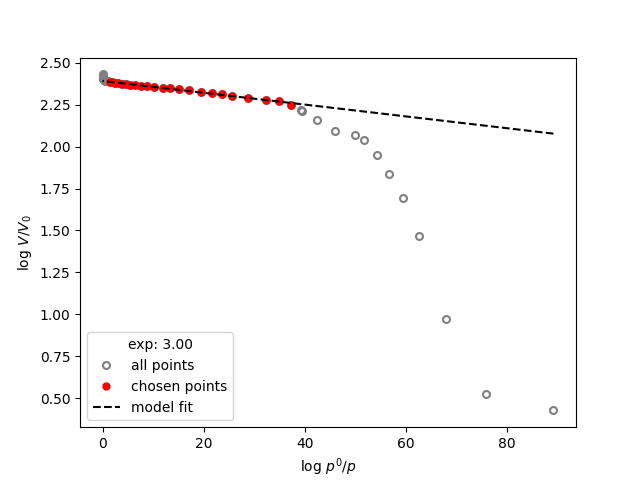
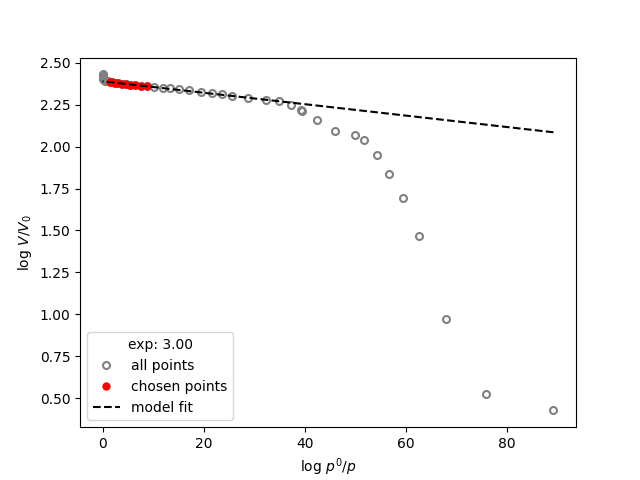
final standardisation

Changed region(s): [[0.1875, 0.1562, 0.4688, 0.25], [0.6875, 0.25, 0.875, 0.2812], [0.5, 0.2188, 0.6875, 0.25]]

diff --git a/dubstandard/dubinin.py b/dubstandard/dubinin.py
@@ -260,7 +260,7 @@ class DubininFilteredResults:
         if optimum_criteria == 'max_corr_coef':
             optimum = 0
             for r in self.result:
-                if self.result[r]['corr_coef'] > optimum:
+                if abs(self.result[r]['corr_coef']) > optimum:
                     optimum = self.result[r]['corr_coef']
                     self.optimum = self.result[r]
 
@@ -378,14 +378,15 @@ def analyseDR(
     )
     filtered = DubininFilteredResults(
         result,
-        optimum_criteria,
+        optimum_criteria=optimum_criteria,
         **kwargs
     )
 
-    filtered.export(
-        output_subdir,
-        verbose=verbose
-    )
+    if len(filtered.result) != 0:
+        filtered.export(
+            output_subdir,
+            verbose=verbose
+        )
 
 
 if __name__ == "__main__":

diff --git a/example/process.py b/example/process.py
@@ -14,8 +14,10 @@ for f in glob.glob(f'{path}*.aif'):
         try:
             analyseDR(
                 isotherm,
+                optimum_criteria='max_corr_coef',
                 output_dir=output_dir,
                 exp=exp,
+                verbose=True,
             )
         except ValueError as e:
             print(isotherm.material)
